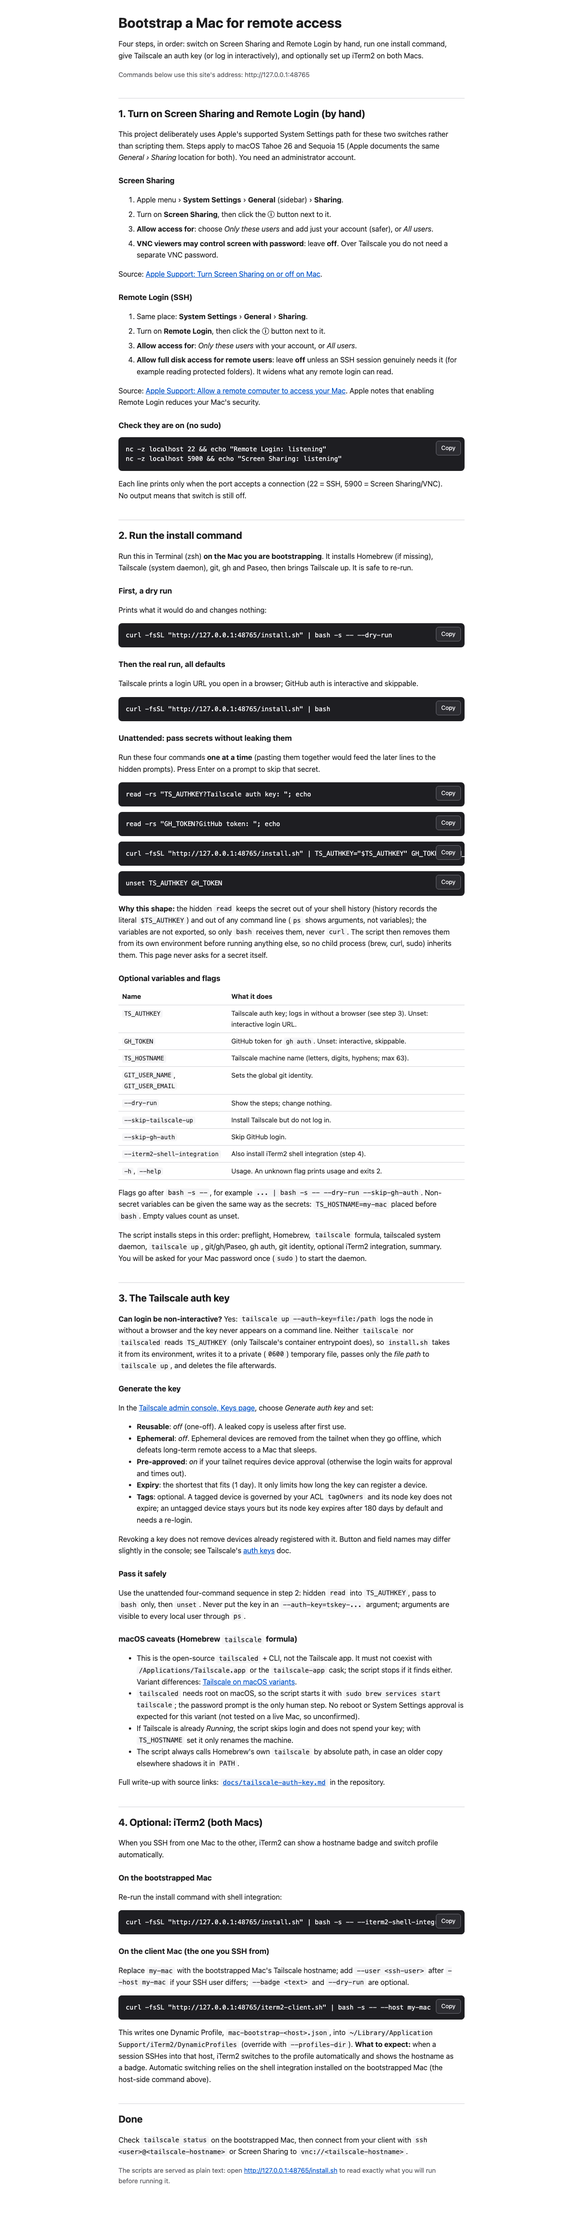
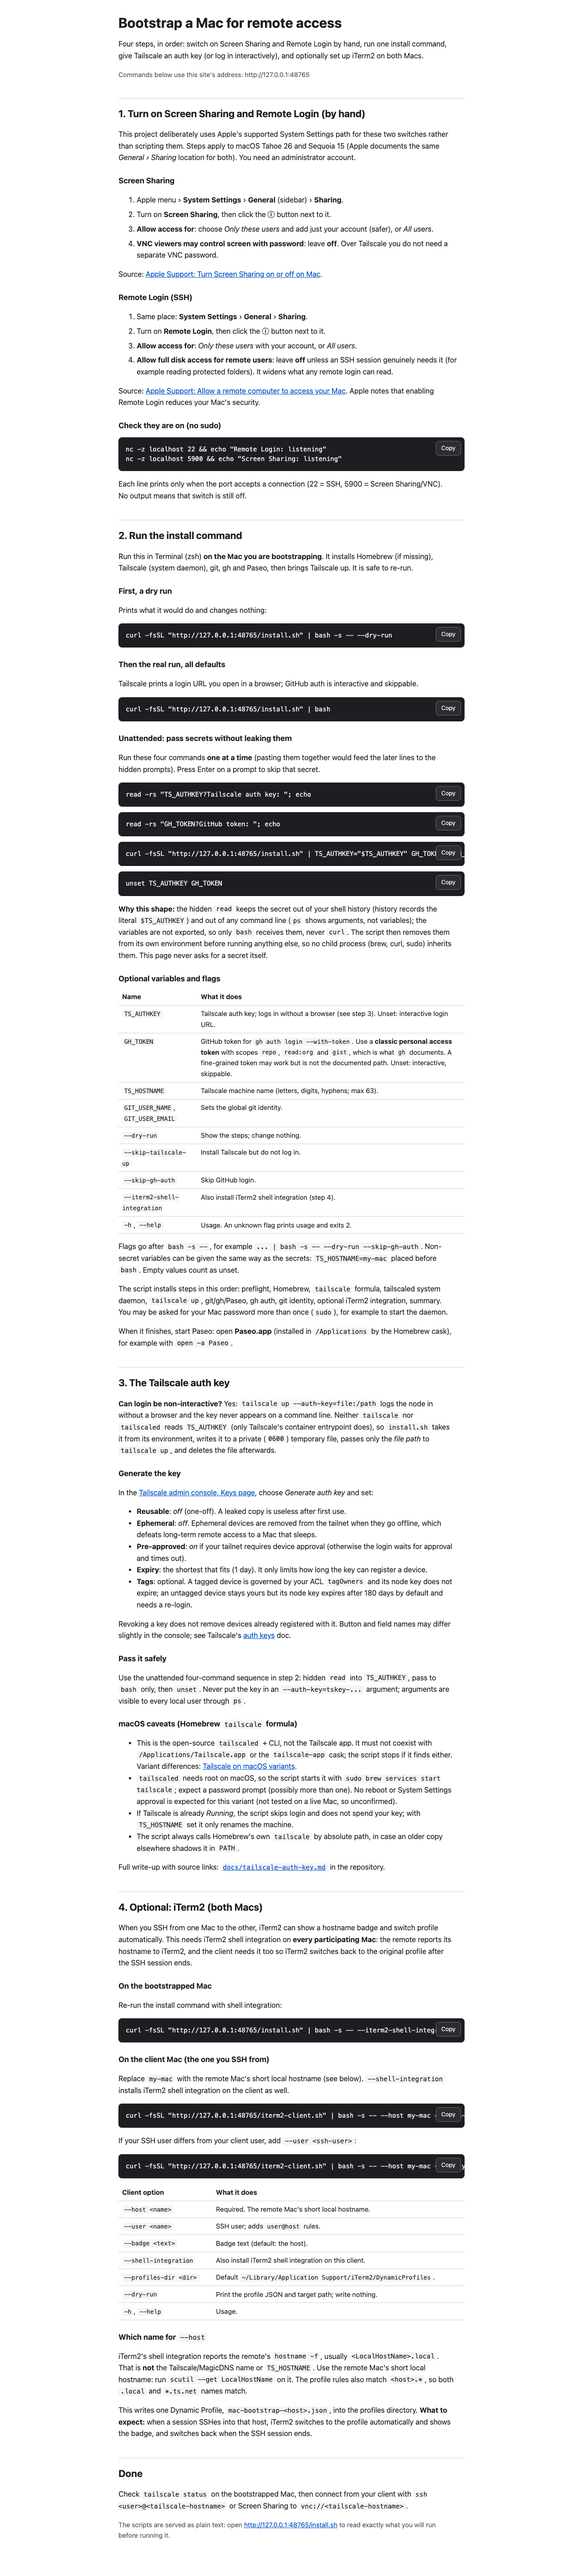
site: repair iTerm2 section, token/sudo wording, Paseo start, CSP on /index.html

Changed region(s): [[0.1875, 0.0, 0.8125, 0.9979]]

diff --git a/public/index.html b/public/index.html
@@ -94,7 +94,7 @@ nc -z localhost 5900 &amp;&amp; echo "Screen Sharing: listening"</code></pre><bu
 <thead><tr><th>Name</th><th>What it does</th></tr></thead>
 <tbody>
 <tr><td><code>TS_AUTHKEY</code></td><td>Tailscale auth key; logs in without a browser (see step 3). Unset: interactive login URL.</td></tr>
-<tr><td><code>GH_TOKEN</code></td><td>GitHub token for <code>gh auth</code>. Unset: interactive, skippable.</td></tr>
+<tr><td><code>GH_TOKEN</code></td><td>GitHub token for <code>gh auth login --with-token</code>. Use a <strong>classic personal access token</strong> with scopes <code>repo</code>, <code>read:org</code> and <code>gist</code>, which is what <code>gh</code> documents. A fine-grained token may work but is not the documented path. Unset: interactive, skippable.</td></tr>
 <tr><td><code>TS_HOSTNAME</code></td><td>Tailscale machine name (letters, digits, hyphens; max 63).</td></tr>
 <tr><td><code>GIT_USER_NAME</code>, <code>GIT_USER_EMAIL</code></td><td>Sets the global git identity.</td></tr>
 <tr><td><code>--dry-run</code></td><td>Show the steps; change nothing.</td></tr>
@@ -105,7 +105,7 @@ nc -z localhost 5900 &amp;&amp; echo "Screen Sharing: listening"</code></pre><bu
 </tbody>
 </table>
 <p>Flags go after <code>bash -s --</code>, for example <code>... | bash -s -- --dry-run --skip-gh-auth</code>. Non-secret variables can be given the same way as the secrets: <code>TS_HOSTNAME=my-mac</code> placed before <code>bash</code>. Empty values count as unset.</p>
-<p>The script installs steps in this order: preflight, Homebrew, <code>tailscale</code> formula, tailscaled system daemon, <code>tailscale up</code>, git/gh/Paseo, gh auth, git identity, optional iTerm2 integration, summary. You will be asked for your Mac password once (<code>sudo</code>) to start the daemon.</p>
+<p>The script installs steps in this order: preflight, Homebrew, <code>tailscale</code> formula, tailscaled system daemon, <code>tailscale up</code>, git/gh/Paseo, gh auth, git identity, optional iTerm2 integration, summary. You may be asked for your Mac password more than once (<code>sudo</code>), for example to start the daemon.</p><p>When it finishes, start Paseo: open <strong>Paseo.app</strong> (installed in <code>/Applications</code> by the Homebrew cask), for example with <code>open -a Paseo</code>.</p>
 
 <h2 id="authkey">3. The Tailscale auth key</h2>
 <p><strong>Can login be non-interactive?</strong> Yes: <code>tailscale up --auth-key=file:/path</code> logs the node in without a browser and the key never appears on a command line. Neither <code>tailscale</code> nor <code>tailscaled</code> reads <code>TS_AUTHKEY</code> (only Tailscale's container entrypoint does), so <code>install.sh</code> takes it from its environment, writes it to a private (<code>0600</code>) temporary file, passes only the <em>file path</em> to <code>tailscale up</code>, and deletes the file afterwards.</p>
@@ -124,21 +124,37 @@ nc -z localhost 5900 &amp;&amp; echo "Screen Sharing: listening"</code></pre><bu
 <h3>macOS caveats (Homebrew <code>tailscale</code> formula)</h3>
 <ul>
 <li>This is the open-source <code>tailscaled</code> + CLI, not the Tailscale app. It must not coexist with <code>/Applications/Tailscale.app</code> or the <code>tailscale-app</code> cask; the script stops if it finds either. Variant differences: <a href="https://tailscale.com/kb/1065/macos-variants" rel="noopener noreferrer">Tailscale on macOS variants</a>.</li>
-<li><code>tailscaled</code> needs root on macOS, so the script starts it with <code>sudo brew services start tailscale</code>; the password prompt is the only human step. No reboot or System Settings approval is expected for this variant (not tested on a live Mac, so unconfirmed).</li>
+<li><code>tailscaled</code> needs root on macOS, so the script starts it with <code>sudo brew services start tailscale</code>; expect a password prompt (possibly more than one). No reboot or System Settings approval is expected for this variant (not tested on a live Mac, so unconfirmed).</li>
 <li>If Tailscale is already <em>Running</em>, the script skips login and does not spend your key; with <code>TS_HOSTNAME</code> set it only renames the machine.</li>
 <li>The script always calls Homebrew's own <code>tailscale</code> by absolute path, in case an older copy elsewhere shadows it in <code>PATH</code>.</li>
 </ul>
 <p>Full write-up with source links: <a href="https://github.com/yanmad27/mac-bootstrap/blob/main/docs/tailscale-auth-key.md" rel="noopener noreferrer"><code>docs/tailscale-auth-key.md</code></a> in the repository.</p>
 
 <h2 id="iterm2">4. Optional: iTerm2 (both Macs)</h2>
-<p>When you SSH from one Mac to the other, iTerm2 can show a hostname badge and switch profile automatically.</p>
+<p>When you SSH from one Mac to the other, iTerm2 can show a hostname badge and switch profile automatically. This needs iTerm2 shell integration on <strong>every participating Mac</strong>: the remote reports its hostname to iTerm2, and the client needs it too so iTerm2 switches back to the original profile after the SSH session ends.</p>
 <h3>On the bootstrapped Mac</h3>
 <p>Re-run the install command with shell integration:</p>
 <div class="cmd"><pre><code id="c-iterm-host"></code></pre><button type="button" data-copy="c-iterm-host">Copy</button></div>
 <h3>On the client Mac (the one you SSH from)</h3>
-<p>Replace <code>my-mac</code> with the bootstrapped Mac's Tailscale hostname; add <code>--user &lt;ssh-user&gt;</code> after <code>--host my-mac</code> if your SSH user differs; <code>--badge &lt;text&gt;</code> and <code>--dry-run</code> are optional.</p>
+<p>Replace <code>my-mac</code> with the remote Mac's short local hostname (see below). <code>--shell-integration</code> installs iTerm2 shell integration on the client as well.</p>
 <div class="cmd"><pre><code id="c-iterm-client"></code></pre><button type="button" data-copy="c-iterm-client">Copy</button></div>
-<p>This writes one Dynamic Profile, <code>mac-bootstrap-&lt;host&gt;.json</code>, into <code>~/Library/Application Support/iTerm2/DynamicProfiles</code> (override with <code>--profiles-dir</code>). <strong>What to expect:</strong> when a session SSHes into that host, iTerm2 switches to the profile automatically and shows the hostname as a badge. Automatic switching relies on the shell integration installed on the bootstrapped Mac (the host-side command above).</p>
+<p>If your SSH user differs from your client user, add <code>--user &lt;ssh-user&gt;</code>:</p>
+<div class="cmd"><pre><code id="c-iterm-client-user"></code></pre><button type="button" data-copy="c-iterm-client-user">Copy</button></div>
+<table>
+<thead><tr><th>Client option</th><th>What it does</th></tr></thead>
+<tbody>
+<tr><td><code>--host &lt;name&gt;</code></td><td>Required. The remote Mac's short local hostname.</td></tr>
+<tr><td><code>--user &lt;name&gt;</code></td><td>SSH user; adds <code>user@host</code> rules.</td></tr>
+<tr><td><code>--badge &lt;text&gt;</code></td><td>Badge text (default: the host).</td></tr>
+<tr><td><code>--shell-integration</code></td><td>Also install iTerm2 shell integration on this client.</td></tr>
+<tr><td><code>--profiles-dir &lt;dir&gt;</code></td><td>Default <code>~/Library/Application Support/iTerm2/DynamicProfiles</code>.</td></tr>
+<tr><td><code>--dry-run</code></td><td>Print the profile JSON and target path; write nothing.</td></tr>
+<tr><td><code>-h</code>, <code>--help</code></td><td>Usage.</td></tr>
+</tbody>
+</table>
+<h3>Which name for <code>--host</code></h3>
+<p>iTerm2's shell integration reports the remote's <code>hostname -f</code>, usually <code>&lt;LocalHostName&gt;.local</code>. That is <strong>not</strong> the Tailscale/MagicDNS name or <code>TS_HOSTNAME</code>. Use the remote Mac's short local hostname: run <code>scutil --get LocalHostName</code> on it. The profile rules also match <code>&lt;host&gt;.*</code>, so both <code>.local</code> and <code>*.ts.net</code> names match.</p>
+<p>This writes one Dynamic Profile, <code>mac-bootstrap-&lt;host&gt;.json</code>, into the profiles directory. <strong>What to expect:</strong> when a session SSHes into that host, iTerm2 switches to the profile automatically and shows the badge, and switches back when the SSH session ends.</p>
 
 <h2 id="done">Done</h2>
 <p>Check <code>tailscale status</code> on the bootstrapped Mac, then connect from your client with <code>ssh &lt;user&gt;@&lt;tailscale-hostname&gt;</code> or Screen Sharing to <code>vnc://&lt;tailscale-hostname&gt;</code>.</p>
@@ -163,7 +179,8 @@ nc -z localhost 5900 &amp;&amp; echo "Screen Sharing: listening"</code></pre><bu
     "c-run": pipe + "bash",
     "c-secret": pipe + 'TS_AUTHKEY="$TS_AUTHKEY" GH_TOKEN="$GH_TOKEN" bash',
     "c-iterm-host": pipe + "bash -s -- --iterm2-shell-integration",
-    "c-iterm-client": 'curl -fsSL "' + cli + '" | bash -s -- --host my-mac'
+    "c-iterm-client": 'curl -fsSL "' + cli + '" | bash -s -- --host my-mac --shell-integration',
+    "c-iterm-client-user": 'curl -fsSL "' + cli + '" | bash -s -- --host my-mac --user your-ssh-user --shell-integration'
   };
   Object.keys(cmds).forEach(function (id) {
     document.getElementById(id).textContent = cmds[id];

diff --git a/README.md b/README.md
@@ -5,7 +5,7 @@ Bootstraps a Mac for remote access over Tailscale: Screen Sharing and Remote Log
 - `public/index.html`: the walkthrough page (static, no framework, no external requests). Every command on it is built from the address it is served from.
 - `public/install.sh`: run on the Mac being bootstrapped.
 - `public/iterm2-client.sh`: run on the client Mac you SSH from.
-- `vercel.json`: no build; serves `public/`; scripts as `text/plain; charset=utf-8` with `nosniff` and revalidating cache; security headers (CSP, `X-Frame-Options`, `Referrer-Policy`) on the page.
+- `vercel.json`: no build; serves `public/`; scripts as `text/plain; charset=utf-8` with `nosniff` and revalidating cache; security headers on every path, and a CSP on `/` and `/index.html`.
 - `docs/tailscale-auth-key.md`: research behind the auth-key section (not served).
 
 ## One-time Vercel import

diff --git a/docs/evidence/site/sources.md b/docs/evidence/site/sources.md
@@ -13,3 +13,5 @@ Untracked stubs `public/install.sh` and `public/iterm2-client.sh` were used for 
 `python3 -m http.server 48765 --bind 127.0.0.1 --directory public`, then a Playwright script (chromium) loaded the page,
 clicked each Copy button and compared clipboard to the displayed text: see playwright-check.txt.
 Not verified: vercel.json header application and the Vercel dashboard labels on a live deployment; Apple/Tailscale UI on a real Mac.
+
+Repair round (base ee91b8b): flags-vs-help in flags-vs-help.txt; Playwright check re-run on the repaired page; screenshots retaken.
